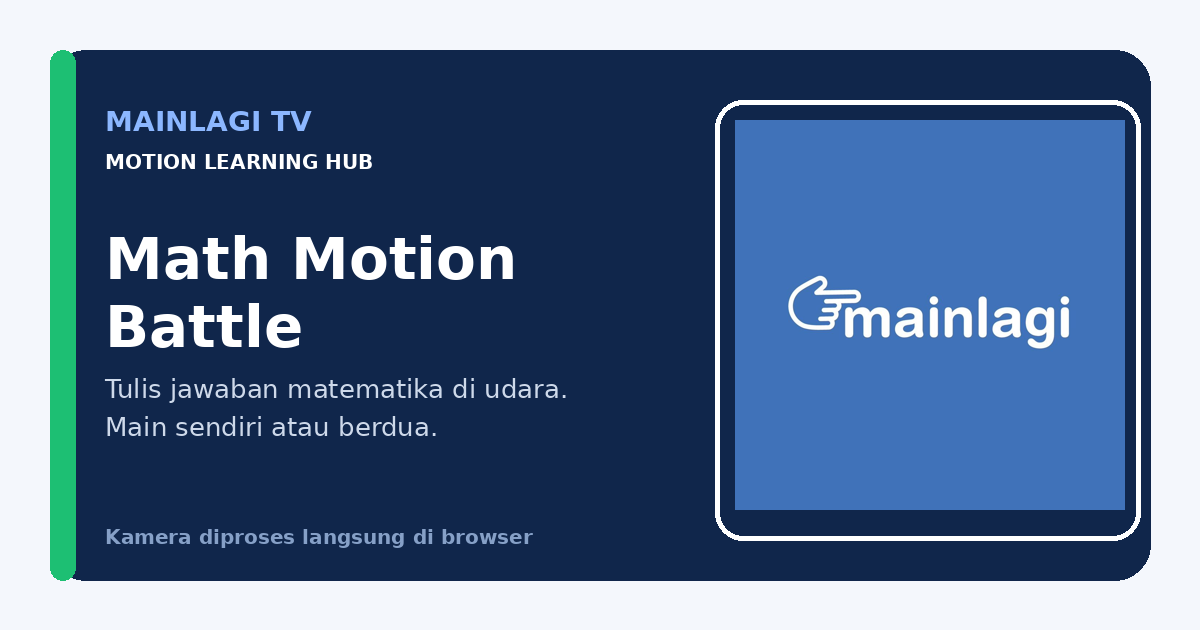
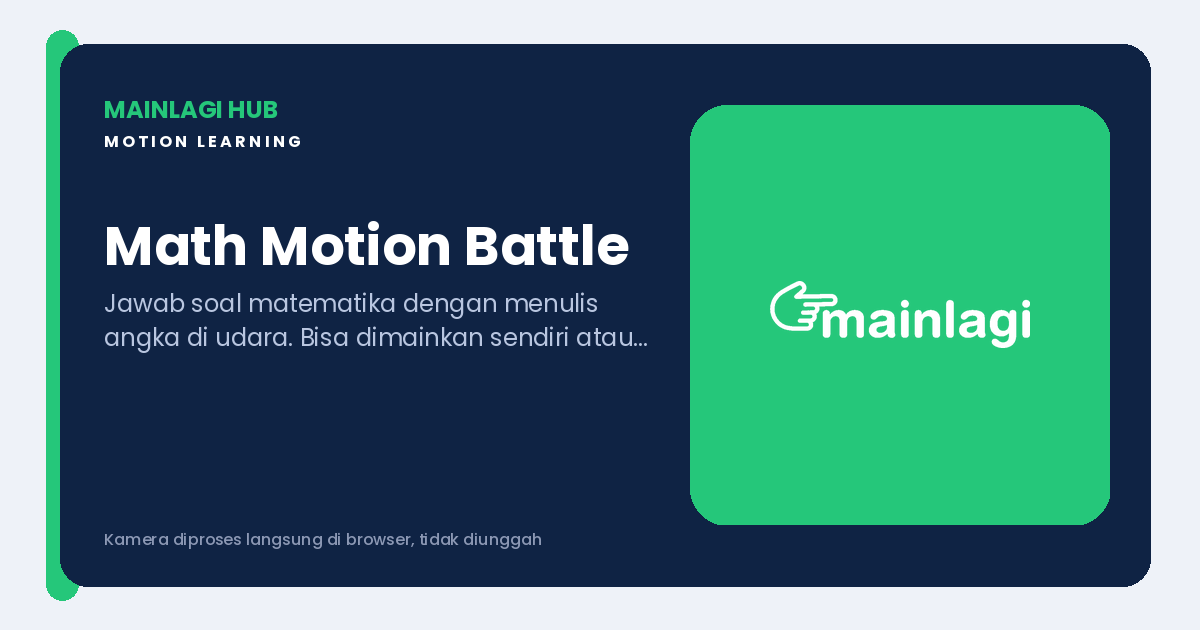
feat: sortable/paginated admin articles table + fresh game OG share images
- Admin /admin/articles: extract table into client ArticlesTable component
  with sortable columns (Judul/Kategori/Status/Terbit, asc/desc) and a
  'Tampilkan lebih banyak' control that reveals 10 rows at a time instead
  of rendering the full list.
- Regenerate public/og/*.png share thumbnails for all 10 games + home.
  The old assets were stale (old 'Mainlagi TV' branding, old game title
  'Dodge Motion' instead of 'Beat Motion'); new ones use current title/
  description per game and correct Mainlagi Hub branding.
- Wire those thumbnails into generateMetadata for /games/[slug] (previously
  had no openGraph.images at all) and /play/[slug] (added twitter card),
  so shared links show a proper hero thumbnail, title, and description.

diff --git a/src/components/admin/articles/ArticlesTable.tsx b/src/components/admin/articles/ArticlesTable.tsx
@@ -1,0 +1,181 @@
+"use client";
+
+import { useMemo, useState } from "react";
+import Link from "next/link";
+import { DeleteArticleButton } from "./DeleteArticleButton";
+import type { ArticleRecord } from "@/lib/admin/articles";
+
+type SortKey = "title" | "category" | "status" | "published_at";
+type SortDir = "asc" | "desc";
+
+const PAGE_SIZE = 10;
+
+function formatDateTime(iso: string): string {
+  const d = new Date(iso);
+  return d.toLocaleString("id-ID", { day: "numeric", month: "short", year: "numeric", hour: "2-digit", minute: "2-digit" });
+}
+
+function formatDate(iso: string): string {
+  const d = new Date(iso);
+  return d.toLocaleDateString("id-ID", { day: "numeric", month: "short", year: "numeric" });
+}
+
+interface Row {
+  article: ArticleRecord;
+  isScheduled: boolean;
+  statusLabel: string;
+}
+
+function SortHeader({
+  label,
+  sortKey,
+  activeKey,
+  dir,
+  onSort
+}: {
+  label: string;
+  sortKey: SortKey;
+  activeKey: SortKey | null;
+  dir: SortDir;
+  onSort: (key: SortKey) => void;
+}) {
+  const isActive = activeKey === sortKey;
+  return (
+    <th aria-sort={isActive ? (dir === "asc" ? "ascending" : "descending") : "none"}>
+      <button type="button" className="admin-table__sort" onClick={() => onSort(sortKey)}>
+        {label}
+        <span className={`admin-table__sort-icon${isActive ? " is-active" : ""}`} aria-hidden>
+          {isActive ? (dir === "asc" ? "\u25B2" : "\u25BC") : "\u2195"}
+        </span>
+      </button>
+    </th>
+  );
+}
+
+export function ArticlesTable({ articles, now }: { articles: ArticleRecord[]; now: number }) {
+  const [sortKey, setSortKey] = useState<SortKey | null>(null);
+  const [sortDir, setSortDir] = useState<SortDir>("asc");
+  const [visibleCount, setVisibleCount] = useState(PAGE_SIZE);
+
+  const rows = useMemo<Row[]>(() => {
+    return articles.map((article) => {
+      const isScheduled =
+        article.status === "published" &&
+        !!article.published_at &&
+        new Date(article.published_at).getTime() > now;
+      const statusLabel = isScheduled ? "Terjadwal" : article.status === "published" ? "Published" : "Draft";
+      return { article, isScheduled, statusLabel };
+    });
+  }, [articles, now]);
+
+  const sorted = useMemo(() => {
+    if (!sortKey) return rows;
+    const dir = sortDir === "asc" ? 1 : -1;
+    return [...rows].sort((a, b) => {
+      let av: string | number;
+      let bv: string | number;
+      switch (sortKey) {
+        case "title":
+          av = a.article.title.toLowerCase();
+          bv = b.article.title.toLowerCase();
+          break;
+        case "category":
+          av = (a.article.category ?? "").toLowerCase();
+          bv = (b.article.category ?? "").toLowerCase();
+          break;
+        case "status":
+          av = a.statusLabel;
+          bv = b.statusLabel;
+          break;
+        case "published_at":
+          av = a.article.published_at ? new Date(a.article.published_at).getTime() : 0;
+          bv = b.article.published_at ? new Date(b.article.published_at).getTime() : 0;
+          break;
+      }
+      if (av < bv) return -1 * dir;
+      if (av > bv) return 1 * dir;
+      return 0;
+    });
+  }, [rows, sortKey, sortDir]);
+
+  const visible = sorted.slice(0, visibleCount);
+  const hasMore = visibleCount < sorted.length;
+
+  function toggleSort(key: SortKey) {
+    setVisibleCount(PAGE_SIZE);
+    if (sortKey === key) {
+      setSortDir((d) => (d === "asc" ? "desc" : "asc"));
+    } else {
+      setSortKey(key);
+      setSortDir("asc");
+    }
+  }
+
+  return (
+    <>
+      <div className="admin-table-wrap">
+        <table className="admin-table">
+          <thead>
+            <tr>
+              <SortHeader label="Judul" sortKey="title" activeKey={sortKey} dir={sortDir} onSort={toggleSort} />
+              <SortHeader label="Kategori" sortKey="category" activeKey={sortKey} dir={sortDir} onSort={toggleSort} />
+              <SortHeader label="Status" sortKey="status" activeKey={sortKey} dir={sortDir} onSort={toggleSort} />
+              <SortHeader label="Terbit" sortKey="published_at" activeKey={sortKey} dir={sortDir} onSort={toggleSort} />
+              <th>Aksi</th>
+            </tr>
+          </thead>
+          <tbody>
+            {visible.map(({ article, isScheduled, statusLabel }) => {
+              const badgeClass = isScheduled
+                ? "admin-badge--pending"
+                : article.status === "published"
+                  ? "admin-badge--ok"
+                  : "admin-badge--muted";
+              return (
+                <tr key={article.id}>
+                  <td>
+                    <b>{article.title}</b>
+                    <br />
+                    <small>/{article.slug}</small>
+                  </td>
+                  <td>{article.category || <span className="admin-note">-</span>}</td>
+                  <td>
+                    <span className={`admin-badge ${badgeClass}`}>{statusLabel}</span>
+                  </td>
+                  <td>
+                    {article.published_at ? (
+                      isScheduled ? formatDateTime(article.published_at) : formatDate(article.published_at)
+                    ) : (
+                      <span className="admin-note">-</span>
+                    )}
+                  </td>
+                  <td className="admin-table__actions">
+                    <Link className="admin-table__action" href={`/admin/articles/${article.id}/edit`}>
+                      Edit
+                    </Link>
+                    <DeleteArticleButton id={article.id} title={article.title} />
+                  </td>
+                </tr>
+              );
+            })}
+          </tbody>
+        </table>
+      </div>
+
+      <div className="admin-table__footer">
+        <small className="admin-note">
+          Menampilkan {visible.length} dari {sorted.length} artikel
+        </small>
+        {hasMore && (
+          <button
+            type="button"
+            className="button button--ghost admin-table__more"
+            onClick={() => setVisibleCount((c) => c + PAGE_SIZE)}
+          >
+            Tampilkan lebih banyak
+          </button>
+        )}
+      </div>
+    </>
+  );
+}

diff --git a/src/app/admin/articles/page.tsx b/src/app/admin/articles/page.tsx
@@ -3,21 +3,11 @@ import Link from "next/link";
 import { AdminGate } from "@/components/admin/AdminGate";
 import { requireOwner } from "@/lib/auth/requireOwner";
 import { listArticles } from "@/lib/admin/articles";
-import { DeleteArticleButton } from "@/components/admin/articles/DeleteArticleButton";
+import { ArticlesTable } from "@/components/admin/articles/ArticlesTable";
 
 export const metadata: Metadata = { title: "Admin Artikel" };
 
 export const dynamic = "force-dynamic";
-
-function formatDateTime(iso: string): string {
-  const d = new Date(iso);
-  return d.toLocaleString("id-ID", { day: "numeric", month: "short", year: "numeric", hour: "2-digit", minute: "2-digit" });
-}
-
-function formatDate(iso: string): string {
-  const d = new Date(iso);
-  return d.toLocaleDateString("id-ID", { day: "numeric", month: "short", year: "numeric" });
-}
 
 export default async function ArticlesAdminPage() {
   const gate = await requireOwner();
@@ -31,6 +21,9 @@ export default async function ArticlesAdminPage() {
     loadError = error instanceof Error ? error.message : "Gagal memuat artikel.";
   }
 
+  // Server component rendered per-request (force-dynamic): reading the clock here
+  // is intentional, not a stale/impure client render.
+  // eslint-disable-next-line react-hooks/purity
   const now = Date.now();
 
   return (
@@ -53,66 +46,7 @@ export default async function ArticlesAdminPage() {
         </div>
       )}
 
-      {articles.length > 0 && (
-        <div className="admin-table-wrap">
-          <table className="admin-table">
-            <thead>
-              <tr>
-                <th>Judul</th>
-                <th>Kategori</th>
-                <th>Status</th>
-                <th>Terbit</th>
-                <th>Aksi</th>
-              </tr>
-            </thead>
-            <tbody>
-              {articles.map((article) => {
-                const isScheduled =
-                  article.status === "published" &&
-                  !!article.published_at &&
-                  new Date(article.published_at).getTime() > now;
-                const badgeClass = isScheduled
-                  ? "admin-badge--pending"
-                  : article.status === "published"
-                    ? "admin-badge--ok"
-                    : "admin-badge--muted";
-                const badgeLabel = isScheduled ? "Terjadwal" : article.status === "published" ? "Published" : "Draft";
-
-                return (
-                  <tr key={article.id}>
-                    <td>
-                      <b>{article.title}</b>
-                      <br />
-                      <small>/{article.slug}</small>
-                    </td>
-                    <td>{article.category || <span className="admin-note">-</span>}</td>
-                    <td>
-                      <span className={`admin-badge ${badgeClass}`}>{badgeLabel}</span>
-                    </td>
-                    <td>
-                      {article.published_at ? (
-                        isScheduled ? (
-                          formatDateTime(article.published_at)
-                        ) : (
-                          formatDate(article.published_at)
-                        )
-                      ) : (
-                        <span className="admin-note">-</span>
-                      )}
-                    </td>
-                    <td className="admin-table__actions">
-                      <Link className="admin-table__action" href={`/admin/articles/${article.id}/edit`}>
-                        Edit
-                      </Link>
-                      <DeleteArticleButton id={article.id} title={article.title} />
-                    </td>
-                  </tr>
-                );
-              })}
-            </tbody>
-          </table>
-        </div>
-      )}
+      {articles.length > 0 && <ArticlesTable articles={articles} now={now} />}
     </main>
   );
 }

diff --git a/src/app/play/[slug]/page.tsx b/src/app/play/[slug]/page.tsx
@@ -4,5 +4,25 @@ import { GameShell } from "@/components/GameShell";
 import { GAMES, isGameSlug } from "@/lib/data/games";
 
 export function generateStaticParams() { return Object.keys(GAMES).map((slug) => ({ slug })); }
-export async function generateMetadata({ params }: { params: Promise<{ slug: string }> }): Promise<Metadata> { const { slug } = await params; if (!isGameSlug(slug)) return {}; const game = GAMES[slug]; return { title: game.title, description: game.description, openGraph: { title: `${game.title} — Mainlagi Hub`, description: game.description, images: [{ url: `/og/${game.slug}.png`, width: 1200, height: 630 }] } }; }
+export async function generateMetadata({ params }: { params: Promise<{ slug: string }> }): Promise<Metadata> {
+  const { slug } = await params;
+  if (!isGameSlug(slug)) return {};
+  const game = GAMES[slug];
+  const ogImage = `/og/${game.slug}.png`;
+  return {
+    title: game.title,
+    description: game.description,
+    openGraph: {
+      title: `${game.title} — Mainlagi Hub`,
+      description: game.description,
+      images: [{ url: ogImage, width: 1200, height: 630, alt: game.title }]
+    },
+    twitter: {
+      card: "summary_large_image",
+      title: `${game.title} — Mainlagi Hub`,
+      description: game.description,
+      images: [ogImage]
+    }
+  };
+}
 export default async function GamePage({ params }: { params: Promise<{ slug: string }> }) { const { slug } = await params; if (!isGameSlug(slug)) notFound(); return <GameShell game={GAMES[slug]} />; }

diff --git a/src/app/globals.css b/src/app/globals.css
@@ -3343,6 +3343,35 @@ html[data-theme="dark"] .admin-banner--warn { background: #2c2408; color: #f4d67
 .admin-table small { color: var(--muted); }
 .admin-table__actions { display: flex; align-items: center; gap: 6px; flex-wrap: wrap; }
 
+.admin-table__sort {
+  display: inline-flex;
+  align-items: center;
+  gap: 5px;
+  background: none;
+  border: none;
+  margin: 0;
+  padding: 0;
+  font: inherit;
+  font-weight: 800;
+  font-size: 11px;
+  text-transform: uppercase;
+  letter-spacing: .03em;
+  color: inherit;
+  cursor: pointer;
+}
+.admin-table__sort:hover { color: var(--navy); }
+.admin-table__sort-icon { font-size: 9px; opacity: .45; }
+.admin-table__sort-icon.is-active { opacity: 1; color: var(--blue); }
+.admin-table__footer {
+  display: flex;
+  align-items: center;
+  justify-content: space-between;
+  gap: 12px;
+  flex-wrap: wrap;
+  margin-top: 14px;
+}
+.admin-table__more { padding: 8px 18px; font-size: 13px; min-height: auto; }
+
 .admin-badge {
   display: inline-flex;
   padding: 3px 10px;

diff --git a/src/app/games/[slug]/page.tsx b/src/app/games/[slug]/page.tsx
@@ -17,10 +17,21 @@ export async function generateMetadata({
   const { slug } = await params;
   if (!isGameSlug(slug)) return {};
   const game = GAMES[slug];
+  const ogImage = `/og/${game.slug}.png`;
   return {
     title: game.title,
     description: game.description,
-    openGraph: { title: game.title, description: game.description },
+    openGraph: {
+      title: `${game.title} — Mainlagi Hub`,
+      description: game.description,
+      images: [{ url: ogImage, width: 1200, height: 630, alt: game.title }]
+    },
+    twitter: {
+      card: "summary_large_image",
+      title: `${game.title} — Mainlagi Hub`,
+      description: game.description,
+      images: [ogImage]
+    },
     alternates: { canonical: `/games/${slug}` }
   };
 }
